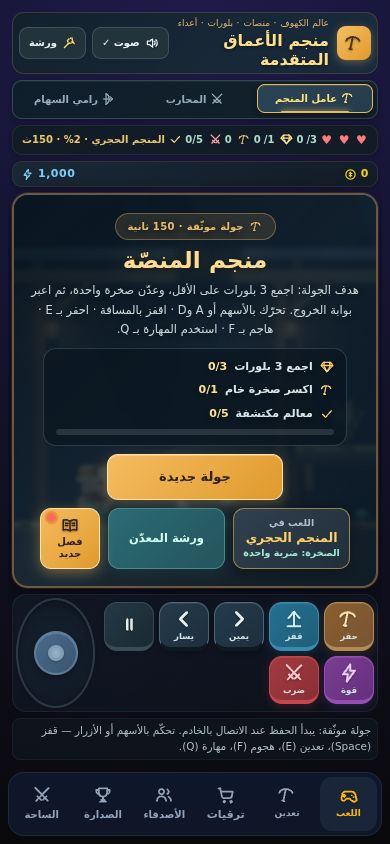
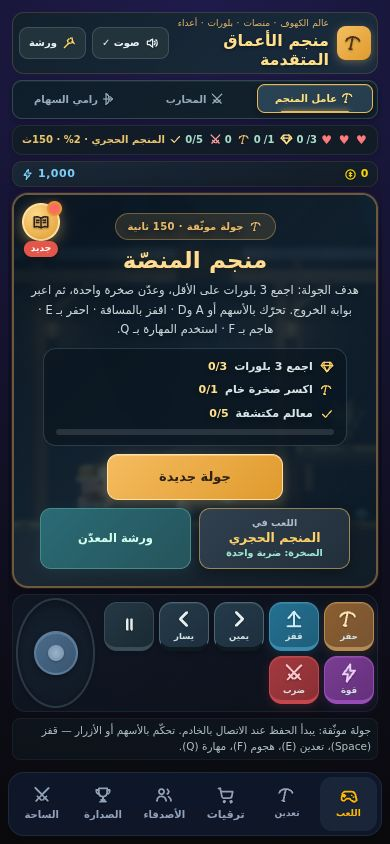
fix(guide): move the guide button out of the button row (CI measured +13px) and test a wider font
CI run 41929548510 for the guide commit failed only at its own E2E step, with the assertion
"the guide button adds no height to the round overlay: 420 !== 407". Not a flake: a real,
font-dependent fragility in my layout.

Cause, reproduced: the button sat in the overlay's button row and took 34px of width from the
two big buttons. On my machine the line "the rock: one hit" had 96.5px of text in 99px of room (2.5px
of slack), so it fitted; the CI runner's font is wider, so the line wrapped and the overlay grew
by one line. Spreading the glyphs by 1.6px on the old build reproduced it here (391 -> 400px);
the same experiment on the new build changes nothing at any spacing.

Fix: the guide button is now a round 38px icon in the overlay's top corner, positioned
absolutely, i.e. outside the layout flow. It cannot change the overlay's height or the width of any
button, whatever the font. Its label stays for screen readers (visually hidden), the red dot and
the gold "new chapter" state stay, and "new" is now a small badge under the icon instead of
text inside a button.

Tests
- The browser E2E compares the overlay with itself, with and without the icon (scrollHeight and
  the widths of the mine, workshop and start buttons), never with a constant, and checks the icon
  and its badge cover nothing else in the overlay.
- Every phone check (320x568, 390x844, 844x390) now runs twice: with the font of the machine and
[…]

Changed region(s): [[0.4615, 0.5853, 0.8615, 0.6777], [0.0923, 0.5853, 0.4308, 0.7085], [0.0308, 0.2156, 0.1846, 0.3081]]

diff --git a/public/guide.css b/public/guide.css
@@ -1,23 +1,31 @@
-/* المرشد «العم سراج» (guide.js): زر المرشد داخل شاشة الجولة (يتحوّل إلى «فصل جديد» عند فتح منجم)، ونافذة المرشد بثلاثة أقسام (الهدف / الموسوعة / الحكاية).
+/* المرشد «العم سراج» (guide.js): زر المرشد أيقونة في زاوية شاشة الجولة (يتحوّل إلى ذهبي بشارة «جديد» عند فتح منجم)، ونافذة المرشد بثلاثة أقسام (الهدف / الموسوعة / الحكاية).
    عرض فقط. الألوان البنفسجية للمرشد وحده كي لا يختلط بذهبي المناجم وتيل الورشة. */
 
 /* ---------- الزر داخل شاشة الجولة ---------- */
-.guide-entry { position: relative; }
-.mine-overlay .overlay-row .guide-entry {
-  flex: 0 0 60px; display: flex; flex-direction: column; align-items: center; justify-content: center; gap: 2px; padding: 6px 4px;
-  background: linear-gradient(135deg, #4d3b6b, #2f2646); color: #efe4ff; border: 1px solid #8670b8; box-shadow: 0 4px 14px rgba(70, 45, 120, .35);
-  font-size: 10px; line-height: 1.2;
+/* أيقونة في زاوية الشاشة خارج تدفّق التخطيط: كان الزر في صفّ الأزرار يضيّق زرّي «المنجم» و«الورشة» فيلتفّ نص «الصخرة: ضربة واحدة»
+   بخط أعرض (قِيس في CI) وتزيد الشاشة سطراً. الزاوية لا تغيّر ارتفاع الشاشة ولا عرض أي زر، أياً كان الخط. */
+.gd-sr { position: absolute; width: 1px; height: 1px; overflow: hidden; clip: rect(0 0 0 0); white-space: nowrap; }
+.mine-overlay .guide-entry {
+  position: absolute; top: 8px; inset-inline-end: 8px; z-index: 3; width: 38px; height: 38px; padding: 0; display: grid; place-items: center;
+  border-radius: 50%; color: #efe4ff; border: 2px solid #8670b8; text-shadow: none;
+  background: radial-gradient(circle at 35% 28%, #5a4580, #261d3d); box-shadow: 0 3px 10px rgba(0, 0, 0, .5);
 }
+.mine-overlay .guide-entry:hover { transform: none; box-shadow: 0 3px 12px rgba(120, 90, 190, .55); }
 .guide-entry .ui-icon { width: 18px; height: 18px; }
 .guide-dot {
-  position: absolute; top: 4px; inset-inline-end: 6px; width: 9px; height: 9px; border-radius: 50%;
-  background: #ff6b5e; box-shadow: 0 0 0 2px #2f2646, 0 0 8px rgba(255, 107, 94, .85);
+  position: absolute; top: -2px; inset-inline-start: -2px; width: 11px; height: 11px; border-radius: 50%;
+  background: #ff6b5e; box-shadow: 0 0 0 2px #261d3d, 0 0 8px rgba(255, 107, 94, .85);
 }
-/* فصل جديد: الزر نفسه يتحوّل إلى ذهبي ويفتح الفصل مباشرة (لا شريط إضافي يزيد ارتفاع شاشة الجولة) */
-.mine-overlay .overlay-row .guide-entry[data-news="1"] {
-  background: linear-gradient(135deg, #f5bc60, #e09a2d); color: #302119; border-color: #ffe2a2; box-shadow: 0 4px 14px rgba(245, 188, 96, .4);
+.guide-new { display: none; }
+/* فصل جديد: الزر يتحوّل إلى ذهبي وتظهر شارة «جديد» تحته ويفتح الفصل مباشرة */
+.mine-overlay .guide-entry[data-news="1"] {
+  background: radial-gradient(circle at 35% 28%, #ffd98a, #e09a2d); color: #302119; border-color: #ffe2a2; box-shadow: 0 3px 14px rgba(245, 188, 96, .55);
 }
 .guide-entry[data-news="1"] .guide-dot { box-shadow: 0 0 0 2px #e09a2d, 0 0 8px rgba(255, 107, 94, .85); }
+.guide-entry[data-news="1"] .guide-new {
+  display: block; position: absolute; top: 100%; left: 50%; transform: translateX(-50%); margin-top: 2px; padding: 1px 7px; border-radius: 999px;
+  font-size: 9px; font-weight: 900; line-height: 1.5; color: #fff; background: #e5564a; white-space: nowrap; box-shadow: 0 2px 6px rgba(0, 0, 0, .45);
+}
 
 /* ---------- النافذة ---------- */
 .guide-overlay {

diff --git a/test/guide.test.js b/test/guide.test.js
@@ -539,18 +539,25 @@ test('wiring: markup, styles, script order and the hooks in the page', () => {
   assert.match(html, /role="tablist" aria-label="أقسام المرشد"/);
   assert.equal((html.match(/data-guide-tab="/g) || []).length, 3);
   assert.match(html, /id="open-guide"[^>]*class="guide-entry"[^>]*data-guide-open[^>]*data-news="0"[^>]*hidden[^>]*aria-haspopup="dialog"/, 'hidden until the guide starts');
-  assert.match(html, /<span data-guide-label>المرشد<\/span><i class="guide-dot" hidden aria-hidden="true"><\/i>/);
+  assert.match(html, /<span class="gd-sr" data-guide-label>المرشد<\/span><span class="guide-new" aria-hidden="true">جديد<\/span><i class="guide-dot" hidden aria-hidden="true"><\/i>/);
   assert.doesNotMatch(html, /guide-chip/, 'no extra strip: the round overlay of a 390x844 phone has no spare line');
   assert.match(html, /<symbol id="i-book" viewBox="0 0 24 24">/);
   assert.match(html, /window\.Guide\?\.init\(\{[\s\S]*?getState: \(\) => state[\s\S]*?\}\);/);
   assert.match(html, /window\.platformReady\.then\(\(\) => window\.Guide\?\.start\?\.\(\)\);/, 'starts only after the server state was adopted, so a veteran never looks new');
   assert.match(html, /window\.Guide\?\.refresh\?\.\(\);\s*\n\s*\}/, 'updateUI keeps it current');
-  const row = /<div class="overlay-row">[\s\S]*?<\/div>/.exec(html)[0];
-  assert.ok(row.indexOf('open-workshop-overlay') < row.indexOf('open-guide'), 'the guide button joins the row next to the workshop button');
+  // a corner icon of the round overlay, outside the button row: in the row its width squeezed the two big buttons, and with the wider
+  // font of the CI runner the line "الصخرة: ضربة واحدة" wrapped and the overlay grew by 13px (measured, run 41929548510)
+  const overlayHtml = /<div id="platform-overlay" class="mine-overlay">[\s\S]*?<button id="platform-resume"[^>]*>[^<]*<\/button>\s*<\/div>/.exec(html)[0];
+  assert.ok(overlayHtml.indexOf('id="open-guide"') > 0 && overlayHtml.indexOf('id="open-guide"') < overlayHtml.indexOf('overlay-kicker'), 'the first child of the round overlay');
+  assert.ok(!/<div class="overlay-row">[\s\S]*?<\/div>/.exec(html)[0].includes('open-guide'), 'and not a member of the button row');
   assert.ok(JSON.parse(read('package.json')).scripts.build.includes('node --check public/guide.js'), 'the build syntax-checks it');
   const css = read('public', 'guide.css');
   for (const sel of ['.guide-overlay', '.gd-tab.active', '.gd-bubble', '.gd-chapter-row.fresh', '.guide-dot', '.guide-entry[data-news="1"]']) assert.ok(css.includes(sel), sel);
-  assert.match(css, /\.mine-overlay \.overlay-row \.guide-entry \{[^}]*flex: 0 0 60px/, 'a compact button: the two big ones keep their room on a 320px phone');
+  const entry = /\.mine-overlay \.guide-entry \{[^}]*\}/.exec(css)[0];
+  for (const decl of [/position: absolute/, /top: 8px/, /inset-inline-end: 8px/, /width: 38px/, /height: 38px/, /border-radius: 50%/]) assert.match(entry, decl, `out of the layout flow, a 38px round icon: ${decl}`);
+  assert.match(css, /\.gd-sr \{[^}]*position: absolute[^}]*clip: rect\(0 0 0 0\)/, 'the label stays for screen readers');
+  assert.match(css, /\.guide-new \{ display: none; \}/, 'the \"new\" badge is hidden by default');
+  assert.match(css, /\.guide-entry\[data-news="1"\] \.guide-new \{[^}]*display: block; position: absolute/, 'and floats under the icon (no layout space) when a chapter is new');
   assert.match(css, /@media \(max-height: 480px\)/, 'landscape phones are handled');
   assert.match(css, /prefers-reduced-motion/);
   assert.ok(Number(/z-index: (\d+)/.exec(/\.guide-overlay \{[^}]*\}/.exec(css)[0])[1]) > 90, 'above the mines map (90)');

diff --git a/public/index.html b/public/index.html
@@ -559,6 +559,7 @@
         <canvas id="platform-canvas" tabindex="0" aria-label="مشهد منجم المنصّة — حرّك بالأسهم، اقفز بالمسافة، عدّن بحرف E، هاجم بحرف F، والمهارة بحرف Q"></canvas>
         <div id="platform-combo" class="mine-combo" aria-live="polite" hidden></div>
         <div id="platform-overlay" class="mine-overlay">
+          <button id="open-guide" type="button" class="guide-entry" data-guide-open data-news="0" hidden aria-haspopup="dialog" aria-label="المرشد العم سراج: الهدف والموسوعة والحكاية"><svg class="ui-icon" aria-hidden="true"><use href="#i-book"/></svg><span class="gd-sr" data-guide-label>المرشد</span><span class="guide-new" aria-hidden="true">جديد</span><i class="guide-dot" hidden aria-hidden="true"></i></button>
           <div class="overlay-kicker"><svg class="ui-icon" aria-hidden="true"><use href="#i-pickaxe"/></svg> جولة موثّقة · 150 ثانية</div>
           <h3 id="platform-title">منجم المنصّة</h3>
           <p id="platform-message">هدف الجولة: اجمع 3 بلورات على الأقل، وعدّن صخرة واحدة، ثم اعبر بوابة الخروج. تحرّك بالأسهم أو A وD · اقفز بالمسافة · احفر بـ E · هاجم بـ F · استخدم المهارة بـ Q.</p>
@@ -573,7 +574,6 @@
           <div class="overlay-row">
             <button id="mine-select" type="button" class="mine-select" aria-haspopup="dialog" aria-label="اختيار المنجم"><span class="mine-select-label">اللعب في</span><b data-mine-name>المنجم الحجري</b><span class="mine-select-hits" data-mine-hits></span></button>
             <button id="open-workshop-overlay" type="button">ورشة المعدّن</button>
-            <button id="open-guide" type="button" class="guide-entry" data-guide-open data-news="0" hidden aria-haspopup="dialog" aria-label="المرشد العم سراج: الهدف والموسوعة والحكاية"><svg class="ui-icon" aria-hidden="true"><use href="#i-book"/></svg><span data-guide-label>المرشد</span><i class="guide-dot" hidden aria-hidden="true"></i></button>
           </div>
           <button id="platform-resume" type="button" hidden>متابعة الجولة</button>
         </div>

diff --git a/README.md b/README.md
@@ -58,7 +58,7 @@ npm start
 - **طاقم المنجم ورفيق الروبوت** (عرض فقط): عامل آلي صغير لكل «عامل آلي» مُشترى (حتى 5) ومنصة حفر لكل «منصة عملاقة» (حتى 2) على سقالة فوق الساحة وشارة «+N» لما زاد، وطائرة روبوت ترافق المعدّن لمن رقّى «الروبوت» في الورشة، ومشي بوزن (خطوة وظل يتنفس وغبار خلف القدمين) — بلا اقتصاد ولا خادم؛ تقليل الحركة يوقفها.
 - **عوالم المناجم والزعيمان** (محرك V5 — بتحقق الخادم): لكل منجم مستوى كامل وفخ مميّز (مكبس سحق، نوافير حمم، بلّورات بأطوار مختلفة…)، وزعيمان: عملاق الذهب (المنجم 3) وحارس القلب (المنجم 6). الزعيم **مدرّع إلا وهو مذهول بعد هجومه**، والبوابة مقفلة حتى يسقط، وغنيمته خامات فقط؛ يُحتسب القتل من إعادة تشغيل الخادم فيُفتح إنجاز «قاتل الزعماء». الدليل والأرقام: [docs/WORLDS-AND-BOSSES.md](docs/WORLDS-AND-BOSSES.md).
 - **الحفر العميق** (الميدالية الخامسة في الكهف — عميل فقط، بلا ذهب ولا خادم): نافذة كاملة فيها بئر عمودي تنزل فيه بعصا التحكم عبر خمس طبقات (حجر ← حديد ← ذهب ← بلّور ← حمم) نحو صندوق «قلب الأسطورة»؛ عروق تلمع في العتمة، حقيبة محدودة تحتفظ بأغلى ما وجدت، وأخطار لها حل (صخرة سائبة تهتز قبل أن تسقط، غاز ينفجر، حمم تحرق من الجوار)، وقرار «أنزل أعمق أم أصعد بالحبل؟» (الإغماء يفقدك نصف الغنيمة). النموذج حتمي (بذرة + معدات + مدخلات)، يقرأ مستويات معدات الورشة فقط، وصوته مولَّد بأجواء لكل طبقة وكتمه مشترك مع الكهف. التفاصيل في [docs/CAVE-HUB.md](docs/CAVE-HUB.md).
-- **المرشد «العم سراج»** (عرض فقط — لا ذهب ولا خادم): زرّ في شاشة الجولة يفتح نافذة بثلاثة أقسام: **الهدف** (يقول ماذا تفعل الآن بأسعار القواعد المشتركة ويقترح أنسب منجم لجمع الخام الناقص)، و**الموسوعة** (الخامات والمناجم والمعدات، ويبقى المجهول «؟؟؟» حتى تكتشفه)، و**الحكاية** (سبعة فصول: فصل لكل منجم وخاتمة، وكل فصل بنصيحة تطابق ما يفعله المحرك). يتحوّل الزر إلى «فصل جديد» عند فتح منجم. لا يحفظ إلا الفصول المقروءة على الجهاز ([الدليل](docs/GUIDE.md)).
+- **المرشد «العم سراج»** (عرض فقط — لا ذهب ولا خادم): أيقونة كتاب في زاوية شاشة الجولة تفتح نافذة بثلاثة أقسام: **الهدف** (يقول ماذا تفعل الآن بأسعار القواعد المشتركة ويقترح أنسب منجم لجمع الخام الناقص)، و**الموسوعة** (الخامات والمناجم والمعدات، ويبقى المجهول «؟؟؟» حتى تكتشفه)، و**الحكاية** (سبعة فصول: فصل لكل منجم وخاتمة، وكل فصل بنصيحة تطابق ما يفعله المحرك). تتحوّل الأيقونة إلى ذهبية بشارة «جديد» عند فتح منجم. لا يحفظ إلا الفصول المقروءة على الجهاز ([الدليل](docs/GUIDE.md)).
 - طاقة تتجدد (3/ثانية) وتُستهلك حسب قوة النقرة.
 - 3 ترقيات (فأس فولاذي / عامل آلي / منصة عملاقة) بأسعار تصاعدية وعدّاد ملكية.
 - دخل سلبي + **أرباح أثناء الغياب** حتى 8 ساعات.

diff --git a/docs/GUIDE.md b/docs/GUIDE.md
@@ -11,13 +11,15 @@
 
 ## ماذا يرى اللاعب
 
-- في شاشة الجولة زرّ **«المرشد»** بجانب «ورشة المعدّن» (يظهر بعد أن يعتمد التطبيق حالة الخادم). عليه **نقطة حمراء** لمن لم يفتحه قط أو لديه فصل لم يقرأه.
+- في شاشة الجولة **أيقونة كتاب مستديرة** في زاويتها العليا (يظهر بعد أن يعتمد التطبيق حالة الخادم؛ والاسم «المرشد» لقارئ الشاشة). عليها **نقطة حمراء** لمن لم يفتحها قط أو لديه فصل لم يقرأه.
 - النافذة بثلاثة أقسام:
   - **الهدف**: العم سراج يقول ماذا تفعل الآن ولماذا، وقائمة بالشروط الناقصة (✓/✗ برموز SVG) وزرّ ينفّذ الخطوة، ونصيحة للمنجم المختار حالياً.
   - **الموسوعة**: الخامات (سعر البيع وأين تُوجد بنسبها) والمناجم (الشروط، والخطر المميّز والزعيم بعد الفتح) والمعدات الثماني (الأثر الآن وسعر الترقية التالية).
   - **الحكاية**: سبعة فصول (فصل لكل منجم وخاتمة)، المغلق منها يذكر شرط فتحه.
-- حين يُفتح منجم جديد يتحوّل الزر نفسه إلى **«فصل جديد»** (ذهبي) ويفتح الفصل مباشرة. لا شريط إضافي: شاشة الجولة على جوال 390×844 تتسع لمحتواها بالكاد
-  فكل سطر زائد كان يدفع صفّ الأزرار خارجها (قِيس وأُصلح أثناء البناء). الفصل الأول لا يرفع الزر؛ تعرّف به النقطة الحمراء وحدها.
+- حين يُفتح منجم جديد تتحوّل الأيقونة نفسها إلى **ذهبية** وتظهر تحتها شارة **«جديد»** وتفتح الفصل مباشرة. الفصل الأول لا يرفعها؛ تعرّف به النقطة الحمراء وحدها.
+- **الأيقونة خارج تدفّق التخطيط** (موضع مطلق في الزاوية): لا تغيّر ارتفاع شاشة الجولة (على جوال 390×844 تتسع لمحتواها بالكاد) ولا عرض أي زر فيها. النسخة الأولى كانت زرّاً في صفّ الأزرار فأخذ عرضاً من زرّي «المنجم» و«الورشة»؛
+  وفي بيئتي بقي لسطر «الصخرة: ضربة واحدة» هامش 2.5px فقط، فلما كان خط مشغّل CI أعرض التفّ السطر وطالت الشاشة 13px وفشل اختبار المتصفح (تشغيل `41929548510`). ليس عارضاً: عُدّل التصميم، وصار الاختبار يقارن الصفحة بنفسها (مع الأيقونة وبدونها: الارتفاع وعرض الأزرار)
+  مرتين على كل مقاس جوال: بخط الجهاز، ثم بعد تباعد الحروف 1.6px. ويمكن تكرار الاختبار كله بخط أعرض بـ `FONT_STRESS=1.4 npm run test:guide`.
 - يوقف الجولة الجارية مؤقتاً عند الفتح، ويعيد التركيز إلى الزر عند الإغلاق (Escape أو زر الإغلاق)، والجولة الموقوفة تبقى هي نفسها.
 
 ## كيف يختار «الهدف التالي» (`Guide.nextGoal`)

diff --git a/docs/GAMEPLAY-ROADMAP.md b/docs/GAMEPLAY-ROADMAP.md
@@ -344,7 +344,7 @@
 
 | البند | النتيجة |
 | --- | --- |
-| الواجهة | زرّ «المرشد» في صفّ أزرار شاشة الجولة (يتحوّل إلى «فصل جديد» عند فتح منجم، **بلا سطر إضافي**: شاشة الجولة على 390×844 تتسع لمحتواها بالكاد، فشريطٌ مستقل كان يدفع الأزرار خارجها وقد قِيس ذلك وعُدّل). نافذة بثلاثة أقسام: الهدف، الموسوعة، الحكاية |
+| الواجهة | أيقونة كتاب في **زاوية** شاشة الجولة خارج تدفّق التخطيط (تتحوّل إلى ذهبية بشارة «جديد» عند فتح منجم؛ لا تزيد ارتفاع الشاشة ولا تأخذ عرضاً من أي زر). كانت أولاً زرّاً في صفّ الأزرار، فكسر خطُّ مشغّل CI الأعرض سطراً من الزرّين المجاورين (420 مقابل 407px)، فنُقلت إلى الزاوية وأُضيف فحص بخطّ موسّع. نافذة بثلاثة أقسام: الهدف، الموسوعة، الحكاية |
 | الهدف | أول منجم مقفل بالترتيب يحدد الهدف (الفوز قبل المعدات)؛ الأسعار من `R.equipCost` وأنسب منجم لجمع الخام من نسب `weights`؛ زرّ الورشة لا يظهر إلا إن كفت المحفظة فعلاً. اختبار يتبع المرشد من 250 حالة حتى النهاية بلا دوران |
 | الموسوعة | خامات (سعر ومصادر بنسبها) ومناجم (شروط، والخطر والزعيم بعد الفتح) ومعدات (الأثر الآن والتالي وسعر الترقية)؛ المجهول «؟؟؟» حتى يُكتشف |
 | الحكاية | سبعة فصول (مصباح حارس المناجم وحجر القلب): عنوان وفقرتان ونصيحة تطابق ما يفعله المحرك في ذلك المنجم؛ اختبار يربط النصائح بمستويات `R.levelFor` وأسماء الزعيمين |
